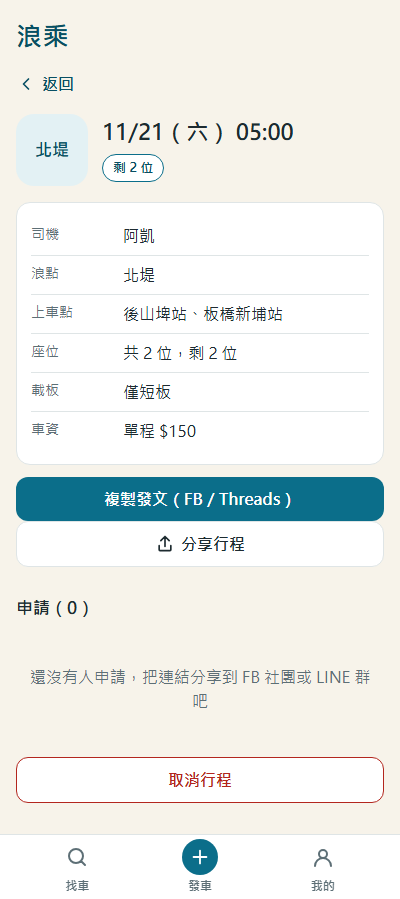
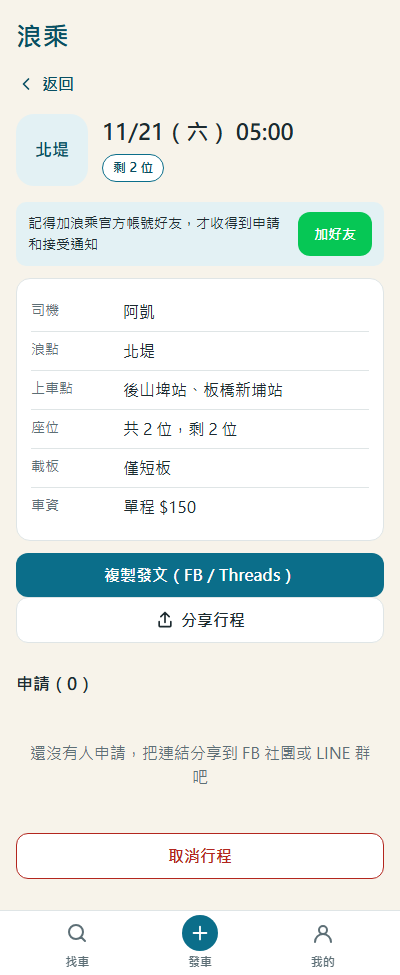
Show a reminder to add the official account as a friend (#17)
Without the friend add, no push ever arrives and nothing tells the user.
Per PR-FRIEND-01 the reminder「記得加浪乘官方帳號好友，才收得到申請和接受
通知」now shows to every logged-in user (no friendship detection):
- at the top of 我的, every time
- on the trip page right after publishing a trip, once
- on the trip page right after sending a request, once

When LINE_OA_BASIC_ID is set, a 加好友 button links to
https://line.me/R/ti/p/%40<id>; the URL is built on the server and sent
via /api/config. Without it only the text shows and the server still
starts. Documented in .env.example and docs/deploy-fly.md.

Tests: PR-FRIEND-01 config URL set/unset, and the frontend copy with no
promise that notifications always arrive. UAT TC-FRIEND-01..04 automated
with screenshots; TC-FRIEND-05 verified on a phone (the account was
already a friend, so LINE opened the chat).

Also adds the LINE cover image to brand/.

npm test: 71 pass. npm run uat: 54 pass, 4 partial, 0 fail.

diff --git a/public/app.js b/public/app.js
@@ -24,6 +24,8 @@ let devLogin = false;
 let config = null;
 // 重新整理畫面後要顯示在頁首的一次性訊息（例如「行程已滿」），下一次 mount 時取用並清掉
 let flash = null;
+// 剛發布行程或送出申請：下一次打開行程頁時顯示加好友提醒（PR-FRIEND-01），顯示一次就清掉
+let friendNudge = false;
 
 // replaceChildren 會把陣列和 null 印成文字，所以畫面一律經過這裡攤平
 function mount(...children) {
@@ -552,6 +554,7 @@ async function newTripPage() {
               meetingPoint: data.get('meetingPoint'),
             },
           });
+          friendNudge = true;
           go(`/trips/${trip.id}`);
         } catch (error) {
           button.disabled = false;
@@ -751,6 +754,7 @@ function applyForm(trip) {
             method: 'POST',
             body: { pickup: data.get('pickup'), boardType: data.get('boardType') },
           });
+          friendNudge = true;
           render();
         } catch (error) {
           button.disabled = false;
@@ -893,6 +897,8 @@ async function tripPage(id) {
     icon('back'),
     navigatedInApp ? '返回' : '看更多行程',
   );
+  const nudge = friendNudge && me ? friendReminder() : null;
+  friendNudge = false;
   mount(
     back,
     h(
@@ -901,6 +907,7 @@ async function tripPage(id) {
       spotTile(trip.spots, 'spot-tile spot-tile-lg'),
       h('div', { class: 'trip-hero-text' }, h('h1', {}, `${formatDate(trip.date)} ${trip.time}`), tripBadge(trip)),
     ),
+    nudge,
     h(
       'div',
       { class: 'card' },
@@ -1005,6 +1012,7 @@ async function mePage() {
   const logoutSlot = h('div');
   mount(
     h('h1', {}, `${me.name} 的共乘`),
+    friendReminder(),
     h('h2', {}, '接下來'),
     upcoming.length
       ? h('div', { class: 'rows' }, upcoming.map(activityCard))
@@ -1030,6 +1038,17 @@ async function mePage() {
     ),
     logoutSlot,
     legalFooter(),
+  );
+}
+
+// 加官方帳號好友提醒（PR-FRIEND-01）：沒加好友就收不到任何推播，而且系統偵測不到，所以對所有登入者一律顯示。
+// 有設定官方帳號 ID 才附「加好友」按鈕；文案不能保證通知必達（docs/user-stories.md 不要說的話）
+function friendReminder() {
+  return h(
+    'div',
+    { class: 'notice friend-reminder', role: 'status' },
+    h('p', {}, '記得加浪乘官方帳號好友，才收得到申請和接受通知'),
+    config?.addFriendUrl ? h('a', { class: 'button line-button', href: config.addFriendUrl }, '加好友') : null,
   );
 }
 

diff --git a/test/friend.test.js b/test/friend.test.js
@@ -1,0 +1,27 @@
+import assert from 'node:assert/strict';
+import { test } from 'node:test';
+import { startApp } from './helpers.js';
+
+test('PR-FRIEND-01 有設定官方帳號 ID 時，前端設定帶出加好友網址', async (t) => {
+  const { client } = await startApp(t, { lineOaBasicId: '@abc1234' });
+  const { body } = await client().get('/api/config');
+  // @ 編碼成 %40，是 LINE 文件寫的加好友網址格式
+  assert.equal(body.addFriendUrl, 'https://line.me/R/ti/p/%40abc1234');
+});
+
+test('PR-FRIEND-01 沒設定官方帳號 ID 時，前端設定照常回應且沒有加好友網址', async (t) => {
+  for (const lineOaBasicId of [undefined, '', '   ']) {
+    const { client } = await startApp(t, { lineOaBasicId });
+    const { status, body } = await client().get('/api/config');
+    assert.equal(status, 200);
+    assert.equal(body.addFriendUrl, undefined, `設定為 ${JSON.stringify(lineOaBasicId)} 時不該有網址`);
+  }
+});
+
+test('PR-FRIEND-01 前端有加好友提醒，且不承諾一定收得到', async (t) => {
+  const { client } = await startApp(t);
+  const { text } = await client().get('/app.js');
+  assert.match(text, /記得加浪乘官方帳號好友，才收得到申請和接受通知/);
+  // docs/user-stories.md「宣傳時不要說的話」
+  assert.doesNotMatch(text, /一定收得到/);
+});

diff --git a/src/app.js b/src/app.js
@@ -74,8 +74,19 @@ function readJson(req) {
   });
 }
 
-export function createApp({ db, line, baseUrl, devLogin = false, supportEmail, now = () => Date.now() }) {
+export function createApp({
+  db,
+  line,
+  baseUrl,
+  devLogin = false,
+  supportEmail,
+  lineOaBasicId,
+  now = () => Date.now(),
+}) {
   const service = createService(db, { now });
+  // PR-FRIEND-01：官方帳號加好友網址。@ 編碼成 %40 是 LINE 文件的寫法；沒設定時前端只顯示文字提醒
+  const oaId = lineOaBasicId?.trim();
+  const addFriendUrl = oaId ? `https://line.me/R/ti/p/${encodeURIComponent(oaId)}` : undefined;
   const secure = baseUrl.startsWith('https://');
   const cookieFlags = `Path=/; HttpOnly; SameSite=Lax${secure ? '; Secure' : ''}`;
   const tripUrl = (trip) => `${baseUrl}/trips/${trip.id}`;
@@ -150,6 +161,7 @@ export function createApp({ db, line, baseUrl, devLogin = false, supportEmail, n
         boardTypes: BOARD_TYPES,
         boardAllowed: BOARD_ALLOWED,
         supportEmail,
+        addFriendUrl,
       });
     }
     if (method === 'GET' && path === '/api/legal') {

diff --git a/test/helpers.js b/test/helpers.js
@@ -18,7 +18,7 @@ export const validTrip = (overrides = {}) => ({
 
 // 透過真實 HTTP 測試：這是專案的接縫，測試不碰內部函式。
 // 回傳的 service 只用來斷言 HTTP 看不到的持久化狀態（例如同意條款紀錄），不要拿來建資料或取代 HTTP 操作
-export async function startApp(t, { line: lineOverrides = {}, devLogin = true, supportEmail } = {}) {
+export async function startApp(t, { line: lineOverrides = {}, devLogin = true, supportEmail, lineOaBasicId } = {}) {
   const clock = { now: NOW };
   const pushes = [];
   const line = {
@@ -35,6 +35,7 @@ export async function startApp(t, { line: lineOverrides = {}, devLogin = true, s
     baseUrl: 'http://test.local',
     devLogin,
     supportEmail,
+    lineOaBasicId,
     now: () => clock.now,
   });
   const server = createServer(app.handler);

diff --git a/public/style.css b/public/style.css
@@ -771,6 +771,24 @@ button.danger:hover:not(:disabled) {
   color: var(--danger);
 }
 
+/* 加官方帳號好友提醒（PR-FRIEND-01）：文字在左、加好友按鈕在右，窄螢幕時按鈕換到下一行 */
+.friend-reminder {
+  display: flex;
+  flex-wrap: wrap;
+  align-items: center;
+  gap: 8px 12px;
+}
+
+.friend-reminder p {
+  flex: 1 1 12em;
+  margin: 0;
+}
+
+.friend-reminder .button {
+  flex: none;
+  padding: 8px 16px;
+}
+
 .contact {
   margin-top: 8px;
   padding: 8px 10px;

diff --git a/src/server.js b/src/server.js
@@ -29,7 +29,14 @@ const line = createLineClient({
   baseUrl,
 });
 const db = openDb(env.DB_PATH ?? 'data/carpool.db');
-const { handler } = createApp({ db, line, baseUrl, devLogin, supportEmail });
+const { handler } = createApp({
+  db,
+  line,
+  baseUrl,
+  devLogin,
+  supportEmail,
+  lineOaBasicId: env.LINE_OA_BASIC_ID,
+});
 
 const server = createServer(handler);
 server.on('error', (error) => {

diff --git a/docs/uat/report-2026-11-20-run-A.md b/docs/uat/report-2026-11-20-run-A.md
@@ -4,7 +4,7 @@
 - **方式**：無頭 Edge＋Chrome DevTools Protocol 實際操作畫面（點按鈕、填表單），手機尺寸 400px 寬
 - **環境**：環境 L（`DEV_LOGIN=1`），獨立測試伺服器 `localhost:3011`、每個場景一個全新資料庫；推播 token 清空，推播文字只印在伺服器 log、沒有送出真推播
 - **角色**：每個角色一個獨立瀏覽器環境（cookie 不共用）
-- **結果**：✅ 49 通過　⚠ 4 部分　❌ 0 失敗
+- **結果**：✅ 54 通過　⚠ 4 部分　❌ 0 失敗
 
 > 截圖是每個案例最後一步的畫面，標示是誰的視角。
 
@@ -26,6 +26,9 @@
 | [TC-SHARE-05](#tc-share-05) | 發文文字不含私人資訊且只有一個標籤 | ✅ 通過 |
 | [TC-MEET-02](#tc-meet-02) | 不填集合點也能發布 | ✅ 通過 |
 | [TC-TRIP-10](#tc-trip-10) | 上一趟已取消仍會帶入 | ✅ 通過 |
+| [TC-FRIEND-02](#tc-friend-02) | 發布行程成功後提醒加好友 | ✅ 通過 |
+| [TC-FRIEND-02b](#tc-friend-02b) | （接續）重新整理後提醒消失，只出現一次 | ✅ 通過 |
+| [TC-FRIEND-01](#tc-friend-01) | 「我的」頁上方提醒加官方帳號好友 | ✅ 通過 |
 | [TC-FIND-08](#tc-find-08) | 首頁預設明天，一鍵切到全部日期 | ✅ 通過 |
 | [TC-FIND-01](#tc-find-01) | 全部日期列表由近到遠排序 | ✅ 通過 |
 | [TC-FIND-03](#tc-find-03) | 依日期篩選 | ✅ 通過 |
@@ -33,10 +36,12 @@
 | [TC-FIND-02](#tc-find-02) | 已取消的行程不出現在列表 | ✅ 通過 |
 | [TC-FIND-05](#tc-find-05) | 依浪點篩選，多浪點行程也會出現 | ✅ 通過 |
 | [TC-FIND-06](#tc-find-06) | 選沒有車的浪點 | ✅ 通過 |
+| [TC-FRIEND-04](#tc-friend-04) | 沒設定官方帳號 ID 時只有文字提醒 | ✅ 通過 |
 | [TC-FIND-09](#tc-find-09) | 明天沒有行程時提示並提供切換 | ✅ 通過 |
 | [TC-REQ-02](#tc-req-02) | 沒選上車點或板型無法申請 | ✅ 通過 |
 | [TC-REQ-12](#tc-req-12) | 僅短板行程可以帶短板（選單部分） | ✅ 通過 |
 | [TC-REQ-01](#tc-req-01) | 乘客申請行程 | ✅ 通過 |
+| [TC-FRIEND-03](#tc-friend-03) | 送出申請成功後提醒加好友 | ✅ 通過 |
 | [TC-REQ-11](#tc-req-11) | 不能重複申請同一行程 | ✅ 通過 |
 | [TC-CANCEL-03](#tc-cancel-03) | 乘客看不到取消行程按鈕 | ✅ 通過 |
 | [TC-REQ-10](#tc-req-10) | 司機不能申請自己的行程 | ✅ 通過 |
@@ -234,6 +239,37 @@
 
 <img src="TC-TRIP-10.png" width="300" alt="TC-TRIP-10 截圖">
 
+### TC-FRIEND-02
+
+**發布行程成功後提醒加好友** — ✅ 通過
+
+- **期望**：發布後的行程頁顯示加好友提醒與「加好友」按鈕；重新整理後提醒消失（只在剛發布時出現一次）
+
+截圖（司機阿凱 的畫面）：
+
+<img src="TC-FRIEND-02.png" width="300" alt="TC-FRIEND-02 截圖">
+
+### TC-FRIEND-02b
+
+**（接續）重新整理後提醒消失，只出現一次** — ✅ 通過
+
+- **期望**：發布後的行程頁顯示加好友提醒與「加好友」按鈕；重新整理後提醒消失（只在剛發布時出現一次）
+- **備註**：補充：TC-FRIEND-02 的步驟 2，重新整理後提醒消失。
+
+截圖（司機阿凱 的畫面）：
+
+<img src="TC-FRIEND-02b.png" width="300" alt="TC-FRIEND-02b 截圖">
+
+### TC-FRIEND-01
+
+**「我的」頁上方提醒加官方帳號好友** — ✅ 通過
+
+- **期望**：標題下方顯示「記得加浪乘官方帳號好友，才收得到申請和接受通知」與「加好友」按鈕；按鈕連到 `https://line.me/R/ti/p/%40<官方帳號 ID>`
+
+截圖（司機阿凱 的畫面）：
+
+<img src="TC-FRIEND-01.png" width="300" alt="TC-FRIEND-01 截圖">
+
 ### TC-FIND-08
 
 **首頁預設明天，一鍵切到全部日期** — ✅ 通過
@@ -305,6 +341,16 @@
 
 <img src="TC-FIND-06.png" width="300" alt="TC-FIND-06 截圖">
 
+### TC-FRIEND-04
+
+**沒設定官方帳號 ID 時只有文字提醒** — ✅ 通過
+
+- **期望**：顯示加好友提醒文字，但沒有「加好友」按鈕
+
+截圖（司機阿凱 的畫面）：
+
+<img src="TC-FRIEND-04.png" width="300" alt="TC-FRIEND-04 截圖">
+
 ### TC-FIND-09
 
 **明天沒有行程時提示並提供切換** — ✅ 通過
@@ -344,6 +390,16 @@
 截圖（乘客小魚 的畫面）：
 
 <img src="TC-REQ-01.png" width="300" alt="TC-REQ-01 截圖">
+
+### TC-FRIEND-03
+
+**送出申請成功後提醒加好友** — ✅ 通過
+
+- **期望**：出現小魚的申請卡，同時顯示加好友提醒與「加好友」按鈕
+
+截圖（乘客小魚 的畫面）：
+
+<img src="TC-FRIEND-03.png" width="300" alt="TC-FRIEND-03 截圖">
 
 ### TC-REQ-11
 

diff --git a/docs/uat-cases.md b/docs/uat-cases.md
@@ -1,6 +1,6 @@
 # 浪乘 驗收案例（UAT）
 
-來源：Issue #1（MVP 規格，PR-AUTH／TRIP／FIND／REQ／CONTACT／NOTIFY／CANCEL／METRIC）、Issue #8（PR-TRIP-05、PR-MEET、PR-SHARE），以及使用者故事「司機阿凱」「乘客小魚」（2026-11-13 對話整理）。
+來源：Issue #1（MVP 規格，PR-AUTH／TRIP／FIND／REQ／CONTACT／NOTIFY／CANCEL／METRIC）、Issue #8（PR-TRIP-05、PR-MEET、PR-SHARE）、Issue #10（PR-FRIEND），以及使用者故事「司機阿凱」「乘客小魚」（2026-11-13 對話整理）。
 
 **編號規則**：`TC-<AREA>-NN` 一經發出即凍結；退役的案例保留段落、狀態改為 `retired`，編號永不重發。證據目錄 `docs/uat/` 以編號命名。
 
@@ -722,3 +722,64 @@
   1. 點「複製發文（FB／Threads）」，貼到記事本
 - **期望結果**：內容沒有 `akai-line`、沒有集合點文字、沒有備註；整段只有一個「#」
 - **最近判定**：通過（2026-11-20，自動化跑法 A，[截圖](uat/TC-SHARE-05.png)）
+
+## TC-FRIEND-01 — 「我的」頁上方提醒加官方帳號好友
+
+- **狀態**：active
+- **負責人**：ChristingChang
+- **來源**：PR-FRIEND-01
+- **角色**：乘客
+- **前置條件**：`.env` 設了 `LINE_OA_BASIC_ID`；小魚已登入
+- **步驟**：
+  1. 點下方「我的」
+- **期望結果**：標題下方顯示「記得加浪乘官方帳號好友，才收得到申請和接受通知」與「加好友」按鈕；按鈕連到 `https://line.me/R/ti/p/%40<官方帳號 ID>`
+- **最近判定**：通過（2026-11-20，自動化跑法 A，[截圖](uat/TC-FRIEND-01.png)）
+
+## TC-FRIEND-02 — 發布行程成功後提醒加好友
+
+- **狀態**：active
+- **負責人**：ChristingChang
+- **來源**：PR-FRIEND-01／司機阿凱
+- **角色**：司機
+- **前置條件**：`.env` 設了 `LINE_OA_BASIC_ID`；阿凱已登入且已填聯絡方式
+- **步驟**：
+  1. 照標準行程發車
+  2. 在新行程頁重新整理
+- **期望結果**：發布後的行程頁顯示加好友提醒與「加好友」按鈕；重新整理後提醒消失（只在剛發布時出現一次）
+- **最近判定**：通過（2026-11-20，自動化跑法 A，[截圖](uat/TC-FRIEND-02.png)）
+
+## TC-FRIEND-03 — 送出申請成功後提醒加好友
+
+- **狀態**：active
+- **負責人**：ChristingChang
+- **來源**：PR-FRIEND-01／乘客小魚
+- **角色**：乘客
+- **前置條件**：`.env` 設了 `LINE_OA_BASIC_ID`；阿凱發了標準行程；小魚已登入且已填聯絡方式
+- **步驟**：
+  1. 小魚開行程頁，選上車點與板型，點「申請共乘」
+- **期望結果**：出現小魚的申請卡，同時顯示加好友提醒與「加好友」按鈕
+- **最近判定**：通過（2026-11-20，自動化跑法 A，[截圖](uat/TC-FRIEND-03.png)）
+
+## TC-FRIEND-04 — 沒設定官方帳號 ID 時只有文字提醒
+
+- **狀態**：active
+- **負責人**：ChristingChang
+- **來源**：PR-FRIEND-01
+- **角色**：乘客
+- **前置條件**：`.env` 沒有設定 `LINE_OA_BASIC_ID`；小魚已登入
+- **步驟**：
+  1. 點下方「我的」
+- **期望結果**：顯示加好友提醒文字，但沒有「加好友」按鈕
+- **最近判定**：通過（2026-11-20，自動化跑法 A，[截圖](uat/TC-FRIEND-04.png)）
+
+## TC-FRIEND-05 — 手機點「加好友」開到官方帳號
+
+- **狀態**：active
+- **負責人**：ChristingChang
+- **來源**：PR-FRIEND-01
+- **角色**：乘客
+- **前置條件**：環境 R；`.env` 設了正確的 `LINE_OA_BASIC_ID`；用手機開浪乘並登入
+- **步驟**：
+  1. 在「我的」頁點「加好友」
+- **期望結果**：手機跳到 LINE，開出浪乘官方帳號（Surfpool）：還不是好友的帳號看到加好友畫面；已經是好友的帳號會直接進聊天室，這也算通過。不能是錯誤頁或「找不到」
+- **最近判定**：通過（2026-11-21，手機實測：點「加好友」開到 Surfpool；測試帳號已是好友，所以直接進聊天室。尚未用非好友帳號看過加好友畫面）

diff --git a/docs/deploy-fly.md b/docs/deploy-fly.md
@@ -53,6 +53,12 @@
    fly secrets set SUPPORT_EMAIL=你的客服信箱
    ```
 
+   官方帳號的 Basic ID（含開頭的 `@`，在 LINE Official Account Manager 的帳號設定裡看得到）用來產生「加好友」按鈕。沒設定時網站只顯示文字提醒、沒有按鈕，伺服器照常啟動（PR-FRIEND-01）：
+
+   ```bash
+   fly secrets set LINE_OA_BASIC_ID=@你的官方帳號ID
+   ```
+
 6. **部署**：
 
    ```bash
